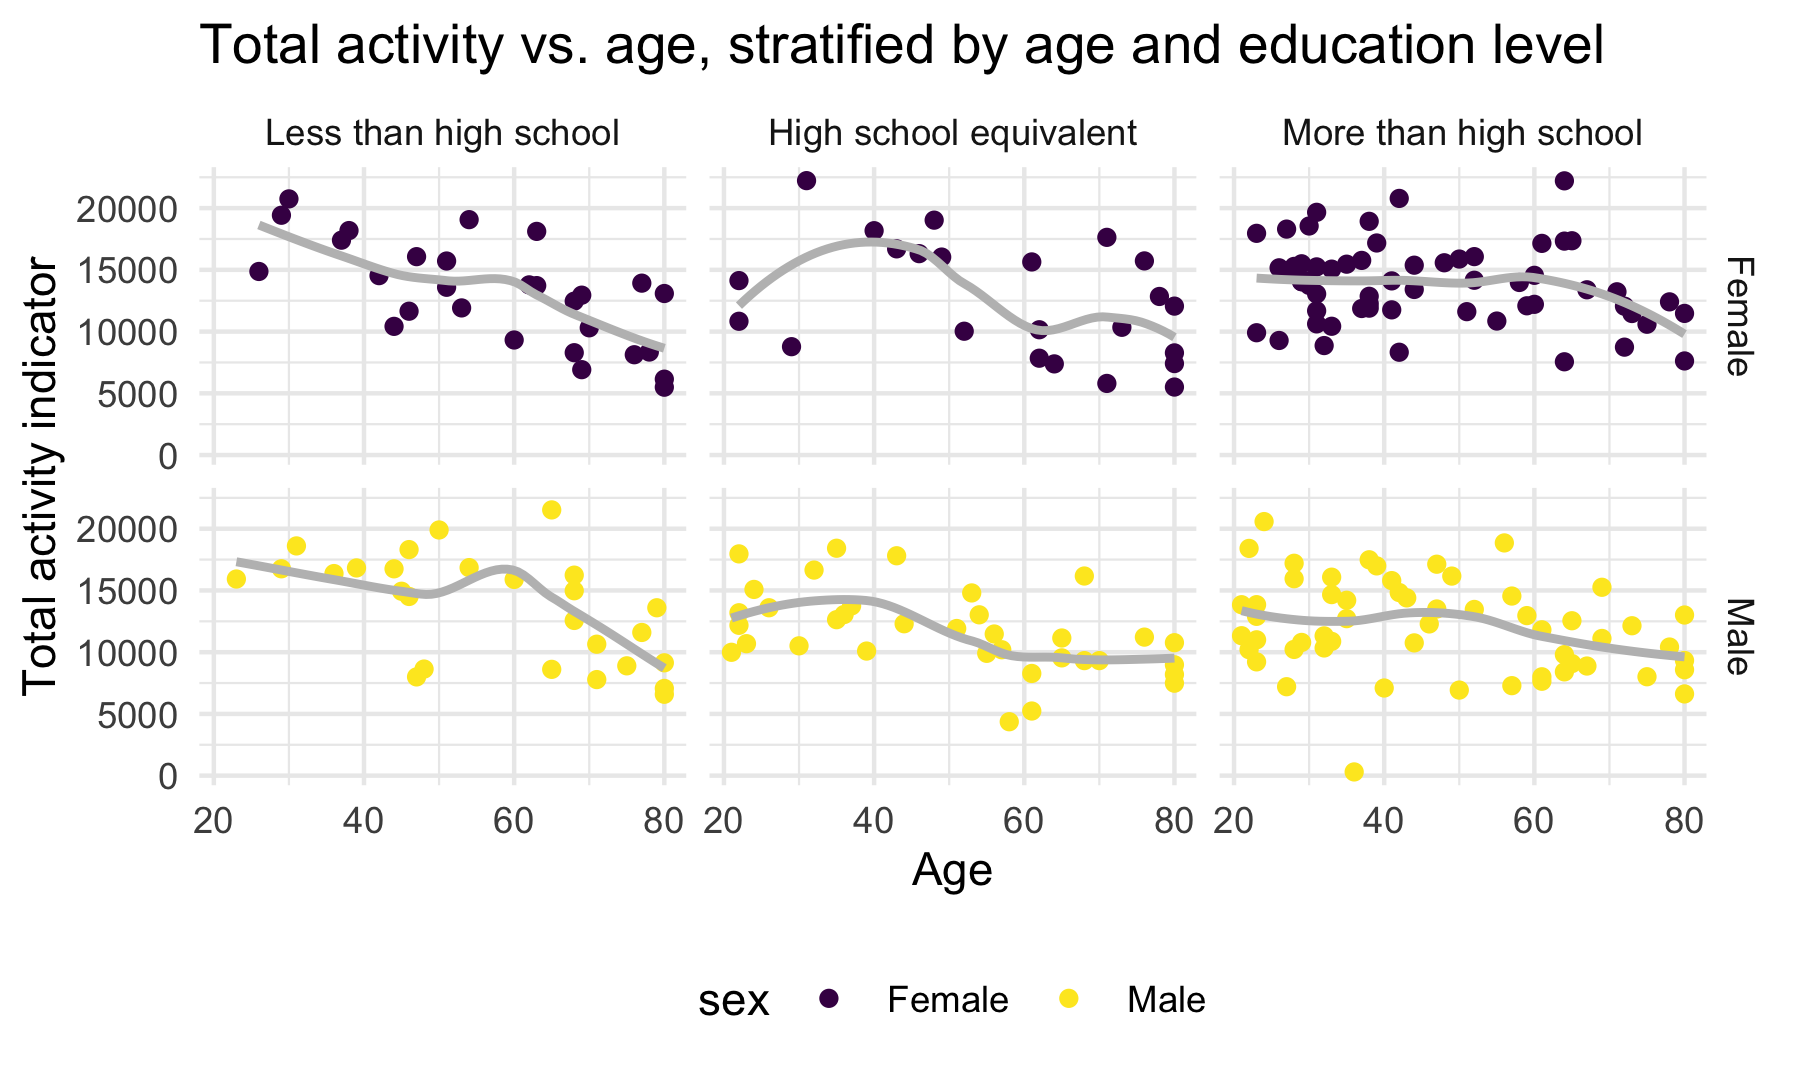
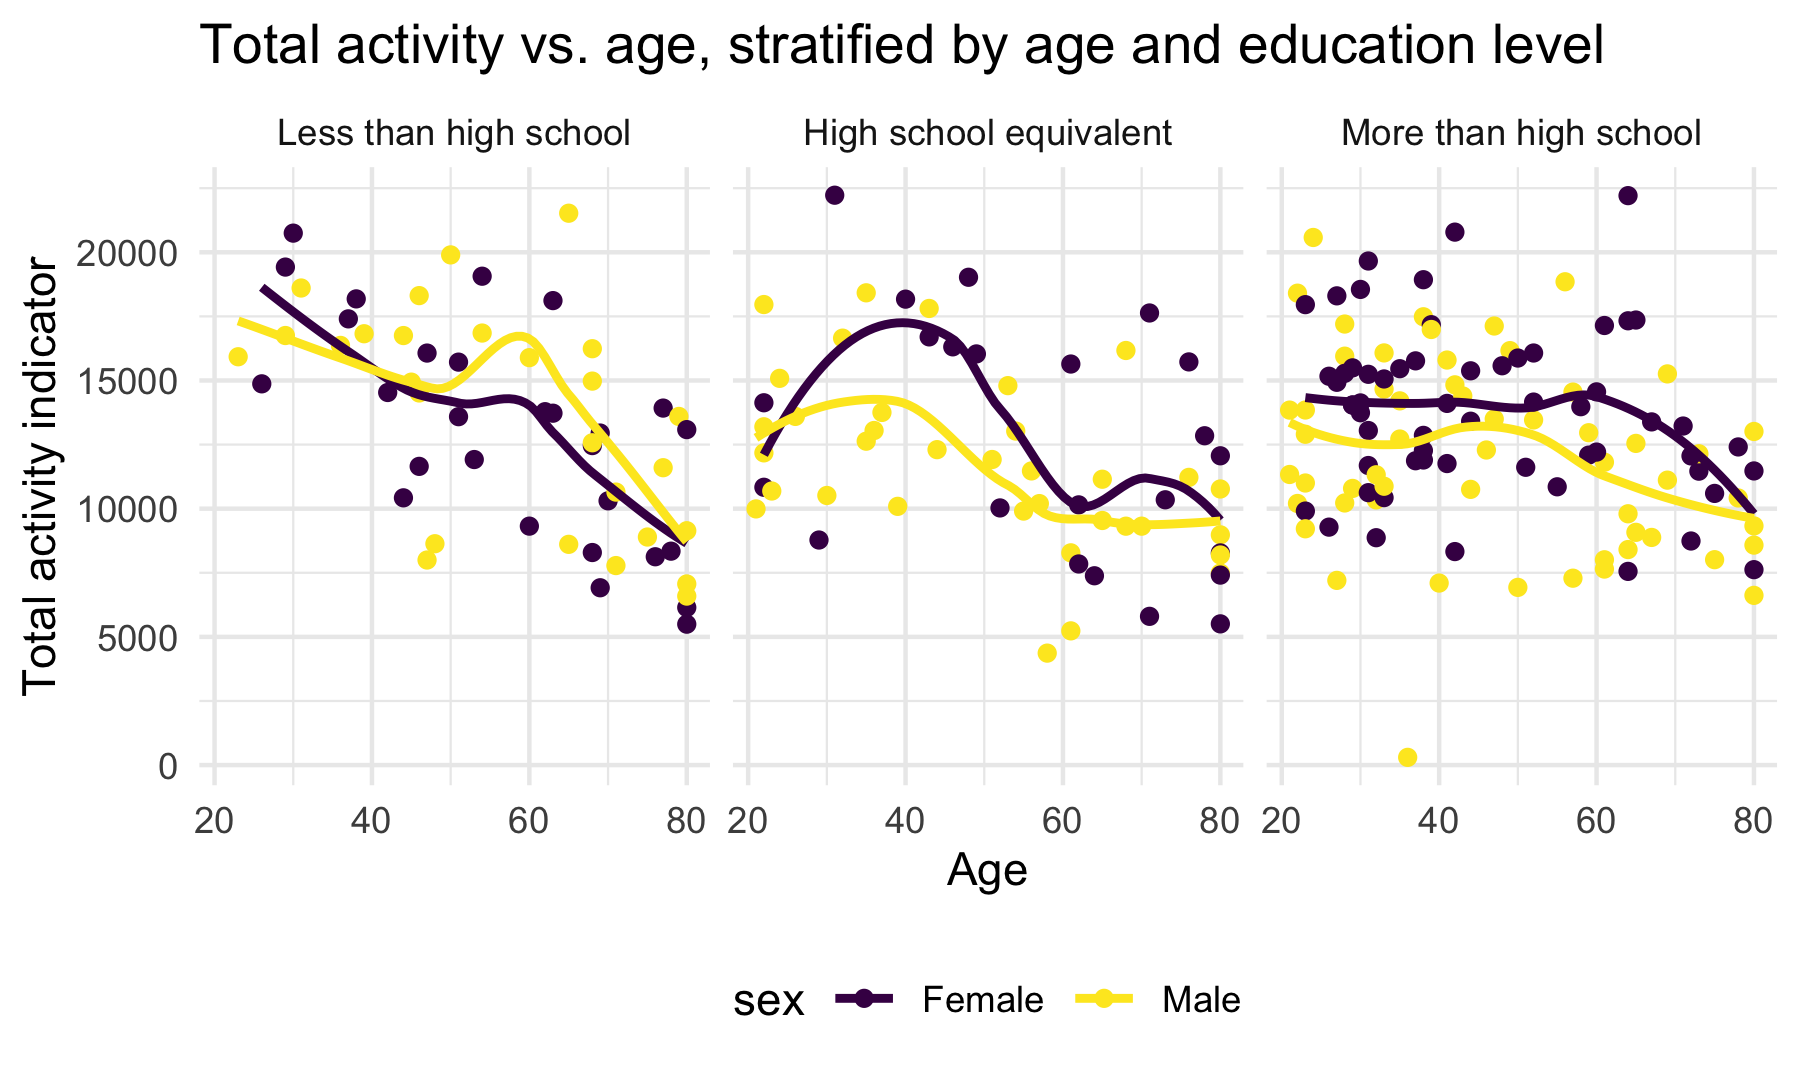
text and figure edits for improved presentation

Changed region(s): [[0.0311, 0.0917, 0.9956, 0.825], [0.3733, 0.9167, 0.6844, 0.9472]]

diff --git a/p8105_hw3_irb2118.md b/p8105_hw3_irb2118.md
@@ -214,7 +214,7 @@ snow_ridge_plot <- ny_noaa |>
   ggridges::geom_density_ridges() + 
   labs(y = "Year",
        x = "Snowfall (cm)",
-       title = "Snowfall between 0 and 100cm by year")
+       title = "Snowfall between 0 \nand 10cm by year")
 
 
 temp_hex_plot + snow_ridge_plot
@@ -309,7 +309,7 @@ move_df |>
 <img src="p8105_hw3_irb2118_files/figure-gfm/unnamed-chunk-11-1.png" width="90%" />
 
 Overall, the number of males and females appears to be fairly balanced,
-although there are more mails with high school equivalents than females.
+although there are more males with high school equivalents than females.
 Looking at the age distribution, it appears that, among those with high
 school equivalents, there are relatively more younger males than
 females.
@@ -323,14 +323,13 @@ level:
 move_df |> 
   group_by(seqn, sex, age, bmi, education) |>
   summarize(total_activity = sum(mims)) |>
-  ggplot(aes(x = age, y = total_activity)) + 
-  geom_point(aes(color = sex)) +
-  geom_smooth(color = "gray", 
-              se = FALSE) + 
+  ggplot(aes(x = age, y = total_activity, color = sex)) + 
+  geom_point() +
+  geom_smooth(se = FALSE) + 
   labs(x = "Age",
        y = "Total activity indicator",
        title = "Total activity vs. age, stratified by age and education level") + 
-  facet_grid(sex ~ education) 
+  facet_grid(. ~ education) 
 ```
 
 <img src="p8105_hw3_irb2118_files/figure-gfm/unnamed-chunk-12-1.png" width="90%" />
@@ -339,9 +338,8 @@ From this plot, it’s clear that total activity tends to decline with
 age, although the rate and degree of this decline can vary with sex and
 education level. The rate of decline appears to be lower among those
 with more education compared to those with less education. The
-differences between men and women are more subtle and harder to discern
-from a single plot, however it appears that females generally have
-higher total activity levels than men.
+differences between men and women are more subtle, however it appears
+that females generally have higher total activity levels than men.
 
 Next we can look at how activity levels vary over the course of the day:
 
@@ -379,13 +377,8 @@ Based on these graphs, we can make a few observations
 
 ## Problem 3
 
-This zip file contains data on rides taken on the NYC Citi Bike system.
-Files contain 1% of all rides with a total duration less than 4 hours in
-each of four months. Import, clean, and tidy these data, and describe
-the resulting dataset.
-
 This problem involves analyzing Citi Bike data, a popular bike rental
-option in New york City.
+option in New York City.
 
 First, I will import, clean, and tidy these data, and merge them into a
 single dataset.
@@ -410,11 +403,11 @@ citi_df <- bind_rows(jan20,jul20,jan24,jul24) |>
                                             "July 2024")))
 ```
 
-This dataframe, `citi_df`, has `nrow(citi_df)` and 8. It shows rides
-taken in January and July, in 2020 and 2024. It shows the start and
-endpoint, the day of the week, the duration of the ride, whether the
-rider was a member or not, and what type of bike they rode (regular
-vs. ebike).
+This dataframe, `citi_df`, has `r`nrow(citi_df)\` rows and 8 columns. It
+shows rides taken in January and July, in 2020 and 2024. It shows the
+start and endpoint, the day of the week, the duration of the ride,
+whether the rider was a member or not, and what type of bike they rode
+(regular vs. ebike).
 
 We can look at total rides by year and month among casual riders and
 members:
@@ -490,8 +483,8 @@ This plot shows a few interesting things:
 
 - The peak ridership day of the week has varied by month and year, but
   is always a weekday. Weekends tend to be somewhat less popular times
-  to ride, and were especially so in July 2020 (possibly impacted by
-  COVID-19 restrictions).
+  to ride, except for in July 2020 (possibly impacted by COVID-19
+  restrictions).
 
 - As noted earlier, the summertime is a much more popular time to ride
   than the winter, and ridership has clearly increased from 2020 to 2024
@@ -518,7 +511,7 @@ citi_df |>
        y = "Density",
        fill = "Bike type",
        color = "Bike type",
-       title = "Distribution of ride duration by  bike type, member status, and month, 2024") +
+       title = "Distribution of ride duration by  bike type, \n member status, and month, 2024") +
   facet_grid(month ~ member_casual)
 ```
 
@@ -545,7 +538,7 @@ citi_df |>
        y = "Density",
        fill = "Bike type",
        color = "Bike type",
-       title = "Distribution of ride duration by  bike type, member status, and month, 2024") +
+       title = "Distribution of ride duration by  bike type, \n member status, and month, 2024") +
   facet_grid(month ~ member_casual)
 ```
 
